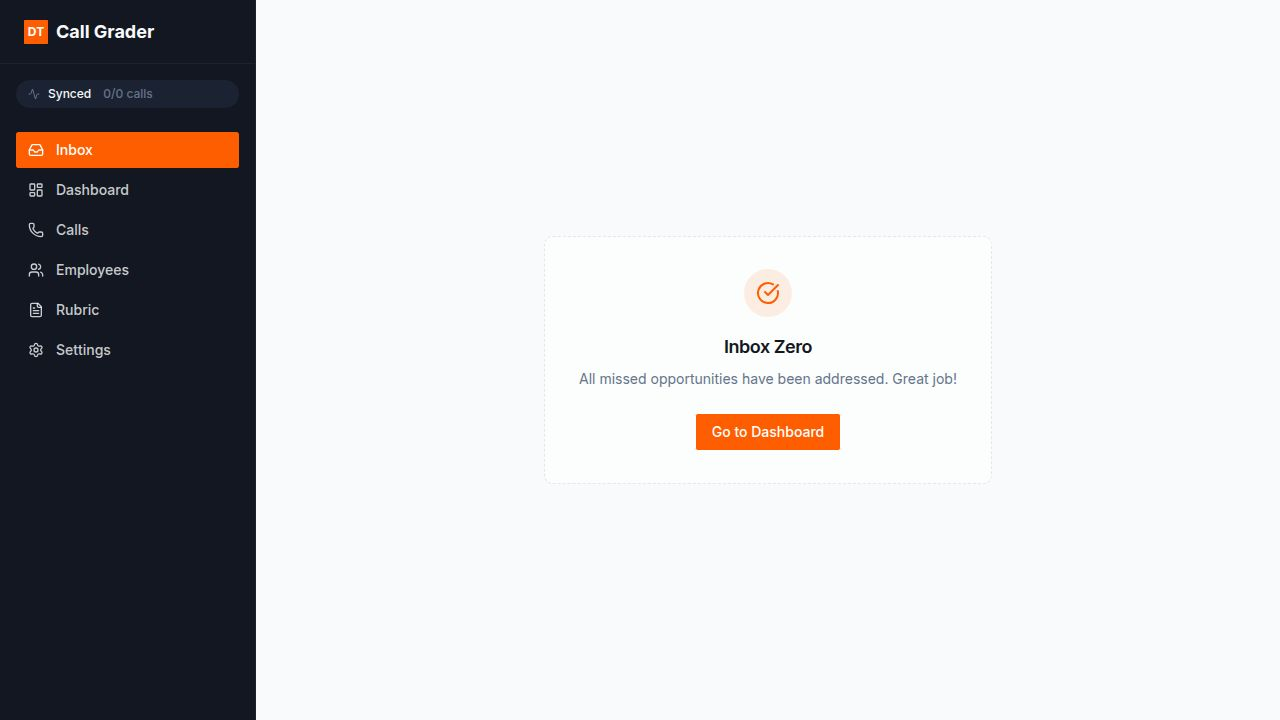
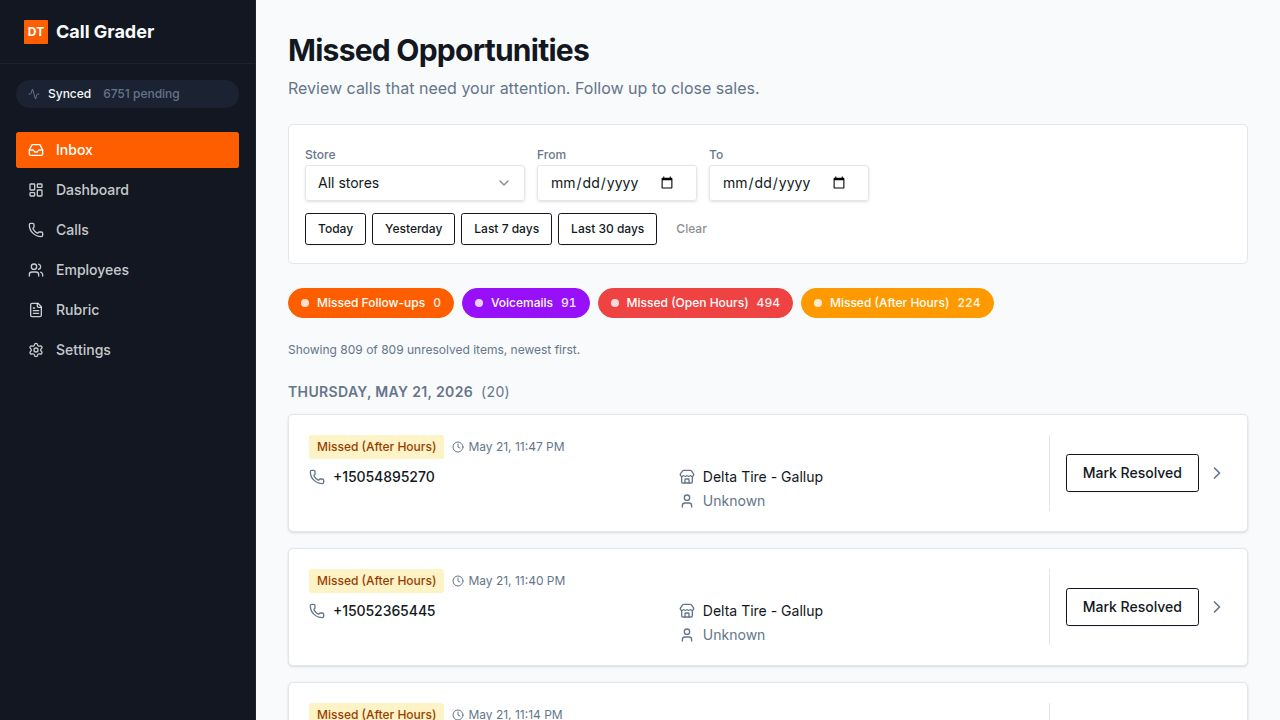
Add voicemail detection and classification for incoming calls
Update call parsing to identify voicemails, add an `isVoicemail` flag, and introduce a new `missed_voicemail` inbox kind for better call categorization and UI display.

Replit-Commit-Author: Agent
Replit-Commit-Session-Id: cdb5b13f-a8c3-4eb2-a5dc-50dfd5168a08
Replit-Commit-Checkpoint-Type: full_checkpoint
Replit-Commit-Event-Id: 293f3a07-852f-48f9-b825-429d70cfdd6e
Replit-Commit-Screenshot-Url: https://storage.googleapis.com/screenshot-production-us-central1/1af8bc5e-e2f8-468c-a4cc-84d3a33f6ae8/cdb5b13f-a8c3-4eb2-a5dc-50dfd5168a08/HQSKgXW
Replit-Helium-Checkpoint-Created: true

diff --git a/artifacts/call-grader/src/pages/inbox.tsx b/artifacts/call-grader/src/pages/inbox.tsx
@@ -34,7 +34,11 @@ function addDays(isoDate: string, days: number): string {
   return d.toISOString().slice(0, 10);
 }
 
-type KindFilter = "shopper_no_followup" | "missed_no_callback" | "missed_after_hours";
+type KindFilter =
+  | "shopper_no_followup"
+  | "missed_voicemail"
+  | "missed_no_callback"
+  | "missed_after_hours";
 
 const FILTER_OPTIONS: Array<{
   key: KindFilter;
@@ -46,6 +50,12 @@ const FILTER_OPTIONS: Array<{
     key: "shopper_no_followup",
     label: "Missed Follow-ups",
     activeClass: "bg-primary text-primary-foreground border-primary",
+    inactiveClass: "bg-background text-muted-foreground border-border hover:text-foreground",
+  },
+  {
+    key: "missed_voicemail",
+    label: "Voicemails",
+    activeClass: "bg-purple-600 text-white border-purple-600 dark:bg-purple-500 dark:border-purple-500",
     inactiveClass: "bg-background text-muted-foreground border-border hover:text-foreground",
   },
   {
@@ -77,6 +87,7 @@ export function InboxPage() {
   const queryClient = useQueryClient();
   const [enabled, setEnabled] = useState<Record<KindFilter, boolean>>({
     shopper_no_followup: true,
+    missed_voicemail: true,
     missed_no_callback: true,
     missed_after_hours: true,
   });
@@ -292,9 +303,11 @@ function InboxCard({ item, onResolve }: { item: InboxItem; onResolve: () => void
   const label =
     item.kind === "shopper_no_followup"
       ? { text: "Missed Follow-up", className: "bg-primary/10 text-primary" }
-      : item.kind === "missed_after_hours"
-        ? { text: "Missed (After Hours)", className: "bg-amber-100 text-amber-800 dark:bg-amber-900/40 dark:text-amber-200" }
-        : { text: "Missed Call", className: "bg-destructive/10 text-destructive" };
+      : item.kind === "missed_voicemail"
+        ? { text: "Voicemail", className: "bg-purple-100 text-purple-800 dark:bg-purple-900/40 dark:text-purple-200" }
+        : item.kind === "missed_after_hours"
+          ? { text: "Missed (After Hours)", className: "bg-amber-100 text-amber-800 dark:bg-amber-900/40 dark:text-amber-200" }
+          : { text: "Missed Call", className: "bg-destructive/10 text-destructive" };
 
   return (
     <Link

diff --git a/artifacts/api-server/src/services/parser.ts b/artifacts/api-server/src/services/parser.ts
@@ -19,6 +19,7 @@ export interface ParsedCall {
   durationSeconds: number;
   displayStatus: string;
   isAfterHours: boolean;
+  isVoicemail: boolean;
   hasTranscript: boolean;
   transcript: TranscriptLine[];
   summary: string[];
@@ -312,12 +313,27 @@ export function parseCallJson(payload: unknown, filePath: string): ParsedCall | 
     displayStatus = "answered";
   }
 
-  const transcript = parseTranscript(
+  let transcript = parseTranscript(
     get(obj, "transcript_lines", "transcript", "transcription", "transcript_text", "lines"),
   );
+  // Voicemails come through with empty `transcript_lines` but a populated
+  // `raw_transcript` string. Promote raw_transcript to the transcript field
+  // so the grader has the caller's actual words to work with.
+  const rawTranscriptText = str(get(obj, "raw_transcript", "rawTranscript"));
+  if (transcript.length === 0 && rawTranscriptText) {
+    transcript = parseTranscript(rawTranscriptText);
+  }
   const summary = parseSummary(
     get(obj, "summary", "ai_summary", "aiSummary", "call_summary", "callSummary", "notes"),
   );
+
+  // Voicemail = inbound + missed + has some recorded content. Podium doesn't
+  // tag it as voicemail explicitly, so we infer from the presence of
+  // transcript content on an otherwise-missed inbound call.
+  const isVoicemail =
+    direction === "inbound" &&
+    displayStatus === "missed" &&
+    (transcript.length > 0 || (rawTranscriptText?.length ?? 0) > 0);
 
   const sourceUid =
     str(get(obj, "call_uid", "id", "call_id", "callId", "uid", "uuid", "external_id", "externalId", "recording_id", "recording_uid")) ??
@@ -336,6 +352,7 @@ export function parseCallJson(payload: unknown, filePath: string): ParsedCall | 
     durationSeconds,
     displayStatus,
     isAfterHours: isAfterHours(storeName, callDatetime),
+    isVoicemail,
     hasTranscript: transcript.length > 0,
     transcript,
     summary,

diff --git a/artifacts/api-server/src/services/followUp.ts b/artifacts/api-server/src/services/followUp.ts
@@ -49,7 +49,7 @@ export async function refreshInboxForCall(callId: number): Promise<void> {
       .where(
         and(
           eq(inboxItems.callId, callId),
-          sql`${inboxItems.kind} IN ('missed_no_callback', 'missed_after_hours')`,
+          sql`${inboxItems.kind} IN ('missed_no_callback', 'missed_after_hours', 'missed_voicemail')`,
         ),
       );
     return;
@@ -62,13 +62,19 @@ export async function refreshInboxForCall(callId: number): Promise<void> {
       .where(
         and(
           eq(inboxItems.callId, callId),
-          sql`${inboxItems.kind} IN ('missed_no_callback', 'missed_after_hours')`,
+          sql`${inboxItems.kind} IN ('missed_no_callback', 'missed_after_hours', 'missed_voicemail')`,
         ),
       );
     return;
   }
 
-  const kind = call.isAfterHours ? "missed_after_hours" : "missed_no_callback";
+  // Voicemails are a stronger signal than a ring-and-hangup, so they get
+  // their own inbox kind regardless of after-hours.
+  const kind = call.isVoicemail
+    ? "missed_voicemail"
+    : call.isAfterHours
+      ? "missed_after_hours"
+      : "missed_no_callback";
 
   // Only consider missed-kind rows here. Shopper rows are owned exclusively
   // by syncShopperInboxAfterGrade and must not be mutated by ingest.
@@ -78,7 +84,7 @@ export async function refreshInboxForCall(callId: number): Promise<void> {
     .where(
       and(
         eq(inboxItems.callId, callId),
-        sql`${inboxItems.kind} IN ('missed_no_callback', 'missed_after_hours')`,
+        sql`${inboxItems.kind} IN ('missed_no_callback', 'missed_after_hours', 'missed_voicemail')`,
       ),
     )
     .limit(1);

diff --git a/lib/db/src/schema/calls.ts b/lib/db/src/schema/calls.ts
@@ -39,6 +39,11 @@ export const calls = pgTable(
     // True when the call arrived outside the receiving store's operating
     // hours (Mountain Time). Computed at ingest time from store + datetime.
     isAfterHours: boolean("is_after_hours").notNull().default(false),
+    // True for missed inbound calls where the caller left voicemail content
+    // (raw_transcript or transcript_lines non-empty). Drives the
+    // "missed_voicemail" inbox kind so the UI can distinguish a hot lead
+    // from a ring-and-hangup.
+    isVoicemail: boolean("is_voicemail").notNull().default(false),
     hasTranscript: integer("has_transcript").notNull().default(0),
     transcript: jsonb("transcript").$type<TranscriptLine[]>().notNull().default([]),
     summary: jsonb("summary").$type<string[]>().notNull().default([]),

diff --git a/artifacts/api-server/src/services/sync.ts b/artifacts/api-server/src/services/sync.ts
@@ -120,6 +120,7 @@ async function upsertCall(parsed: ParsedCall, fileId: string, filePath: string):
     durationSeconds: parsed.durationSeconds,
     displayStatus: parsed.displayStatus,
     isAfterHours: parsed.isAfterHours,
+    isVoicemail: parsed.isVoicemail,
     hasTranscript: parsed.hasTranscript ? 1 : 0,
     transcript: parsed.transcript,
     summary: parsed.summary,